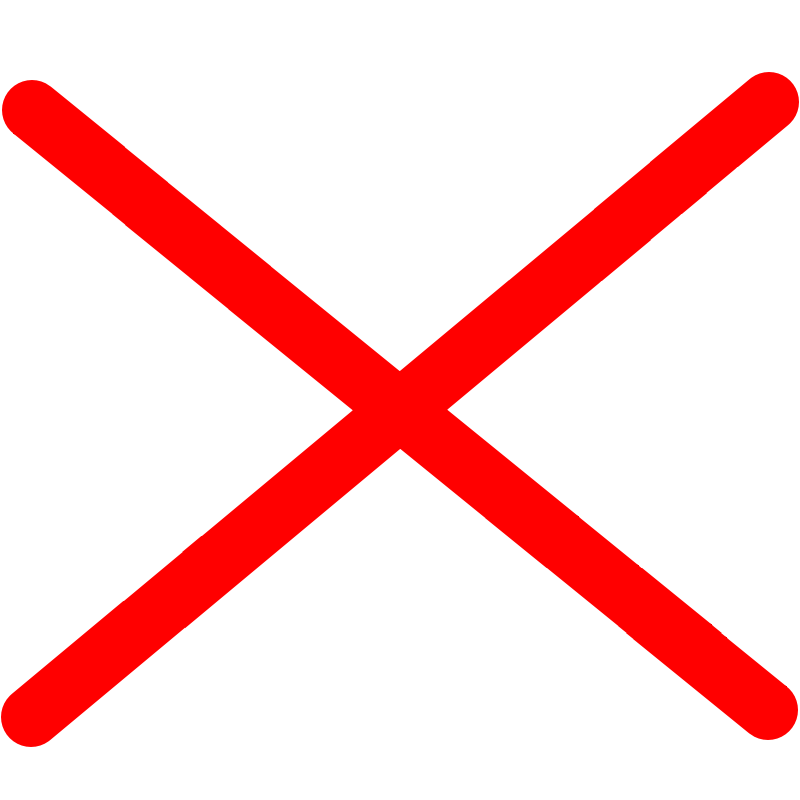
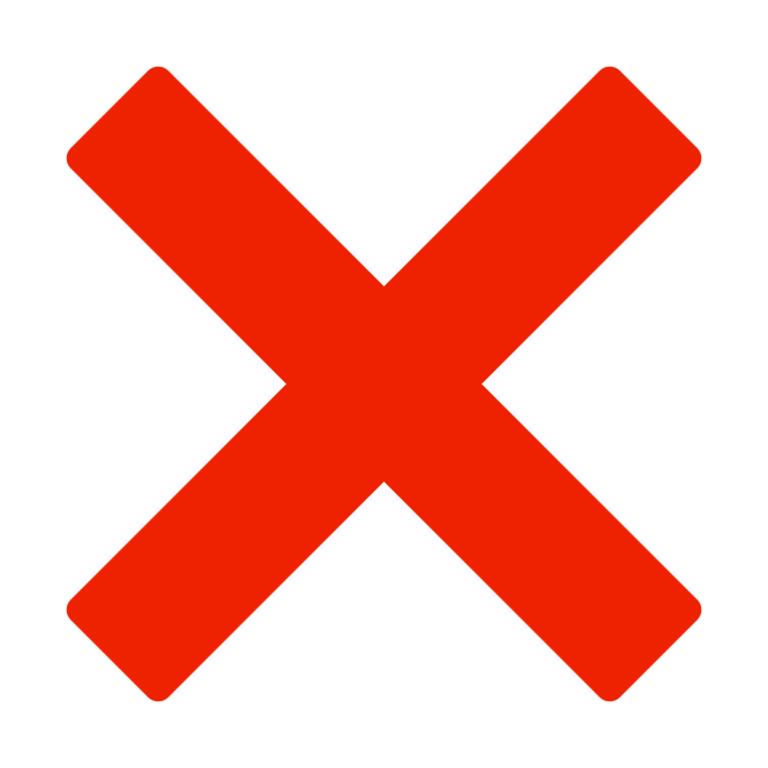
修改审核状态图标

diff --git a/src/view/daily/worklog/team-admin-worklog-daily-record-table.vue b/src/view/daily/worklog/team-admin-worklog-daily-record-table.vue
@@ -113,6 +113,9 @@ import { getDataDictByCode, getDataDictByCodeForChildren } from '@/api/daily/evo
 import { listOrgEmployeeSelfMember } from '@/api/daily/org-employee'
 import { listProjectSystemItem } from '@/api/daily/project-system-item'
 import { pageWorklogDailyRecordSelfMember, deleteWorklogDailyRecord, exportExcelWorklogDailyRecord } from '@/api/daily/worklog-daily-record'
+import IMG_WDRS0001 from '@/assets/images/daily/WDRS0001.png'
+import IMG_WDRS0002 from '@/assets/images/daily/WDRS0002.png'
+import IMG_WDRS0003 from '@/assets/images/daily/WDRS0003.png'
 
 export default {
   data () {
@@ -230,9 +233,13 @@ export default {
           title: '状态',
           key: 'status',
           render: (h, params) => {
-            return h('Icon', {
+            return h('img', {
               props: {
-                type: params.row.status === 'WDRS0001' ? 'ios-checkmark-circle-outline' : (params.row.status === 'WDRS0002' ? 'md-checkmark' : 'md-close')
+                type: 'primary',
+                size: 'small'
+              },
+              attrs: {
+                src: params.row.status === 'WDRS0001' ? IMG_WDRS0001 : (params.row.status === 'WDRS0002' ? IMG_WDRS0002 : IMG_WDRS0003), style: 'width: 24px; height: 24px;'
               }
             })
           }

diff --git a/src/view/daily/worklog/company-admin-worklog-daily-record-table.vue b/src/view/daily/worklog/company-admin-worklog-daily-record-table.vue
@@ -113,6 +113,9 @@ import { getDataDictByCode, getDataDictByCodeForChildren } from '@/api/daily/evo
 import { listOrgEmployee } from '@/api/daily/org-employee'
 import { listProjectSystemItem } from '@/api/daily/project-system-item'
 import { pageWorklogDailyRecord, deleteWorklogDailyRecord, exportExcelWorklogDailyRecord } from '@/api/daily/worklog-daily-record'
+import IMG_WDRS0001 from '@/assets/images/daily/WDRS0001.png'
+import IMG_WDRS0002 from '@/assets/images/daily/WDRS0002.png'
+import IMG_WDRS0003 from '@/assets/images/daily/WDRS0003.png'
 
 export default {
   data () {
@@ -231,9 +234,13 @@ export default {
           title: '状态',
           key: 'status',
           render: (h, params) => {
-            return h('Icon', {
+            return h('img', {
               props: {
-                type: params.row.status === 'WDRS0001' ? 'ios-checkmark-circle-outline' : (params.row.status === 'WDRS0002' ? 'md-checkmark' : 'md-close')
+                type: 'primary',
+                size: 'small'
+              },
+              attrs: {
+                src: params.row.status === 'WDRS0001' ? IMG_WDRS0001 : (params.row.status === 'WDRS0002' ? IMG_WDRS0002 : IMG_WDRS0003), style: 'width: 24px; height: 24px;'
               }
             })
           }
